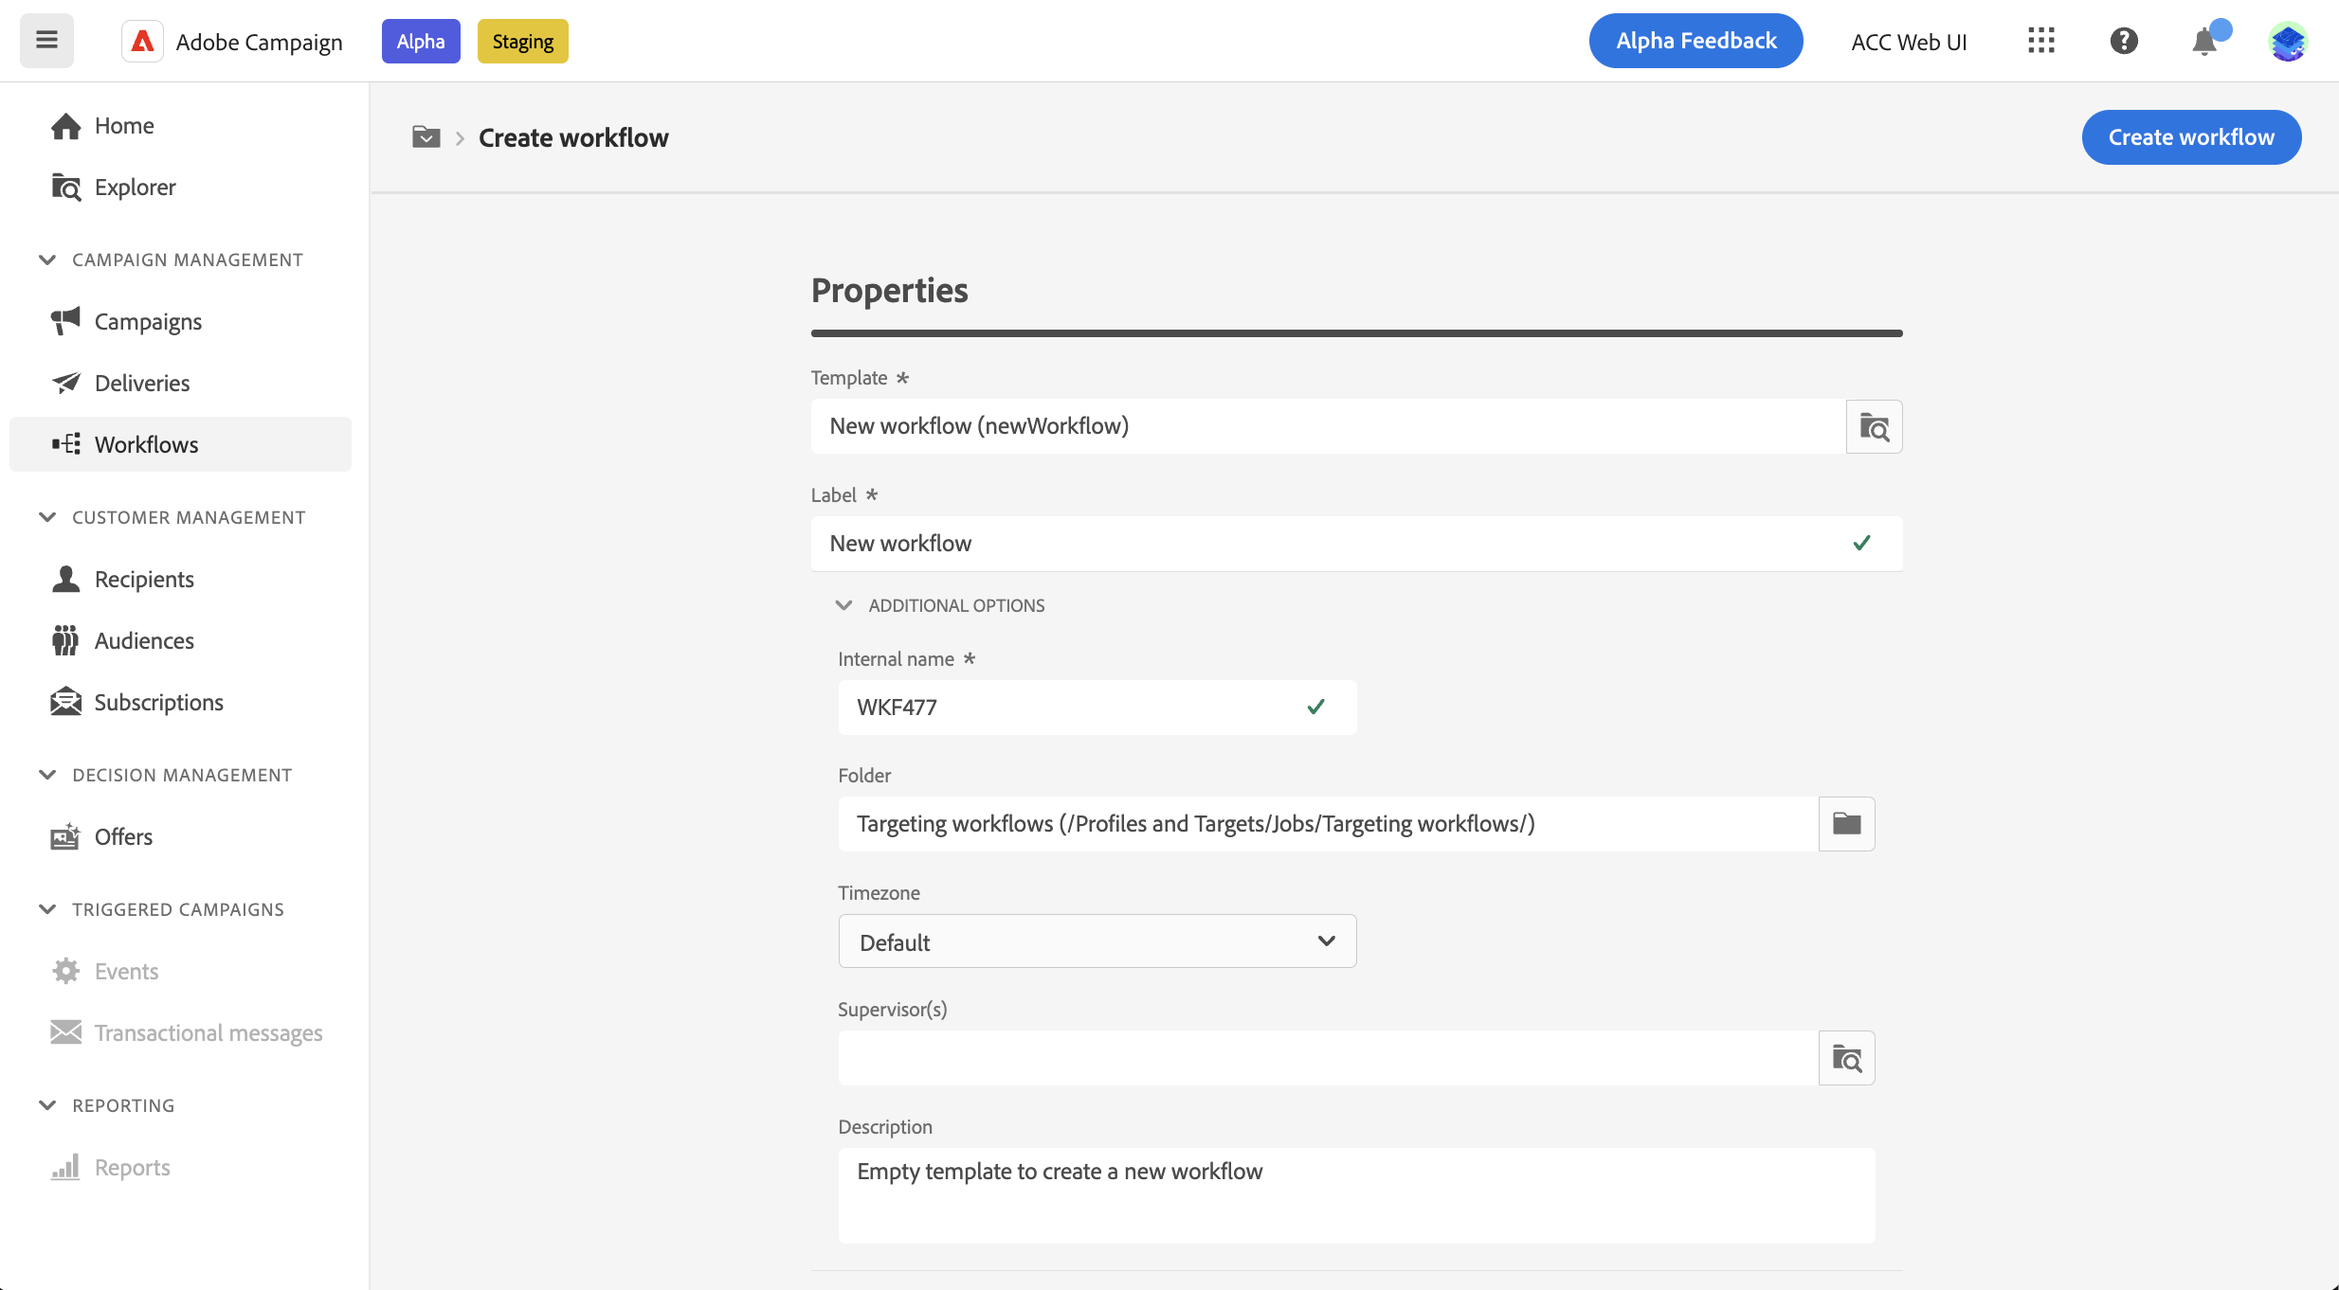
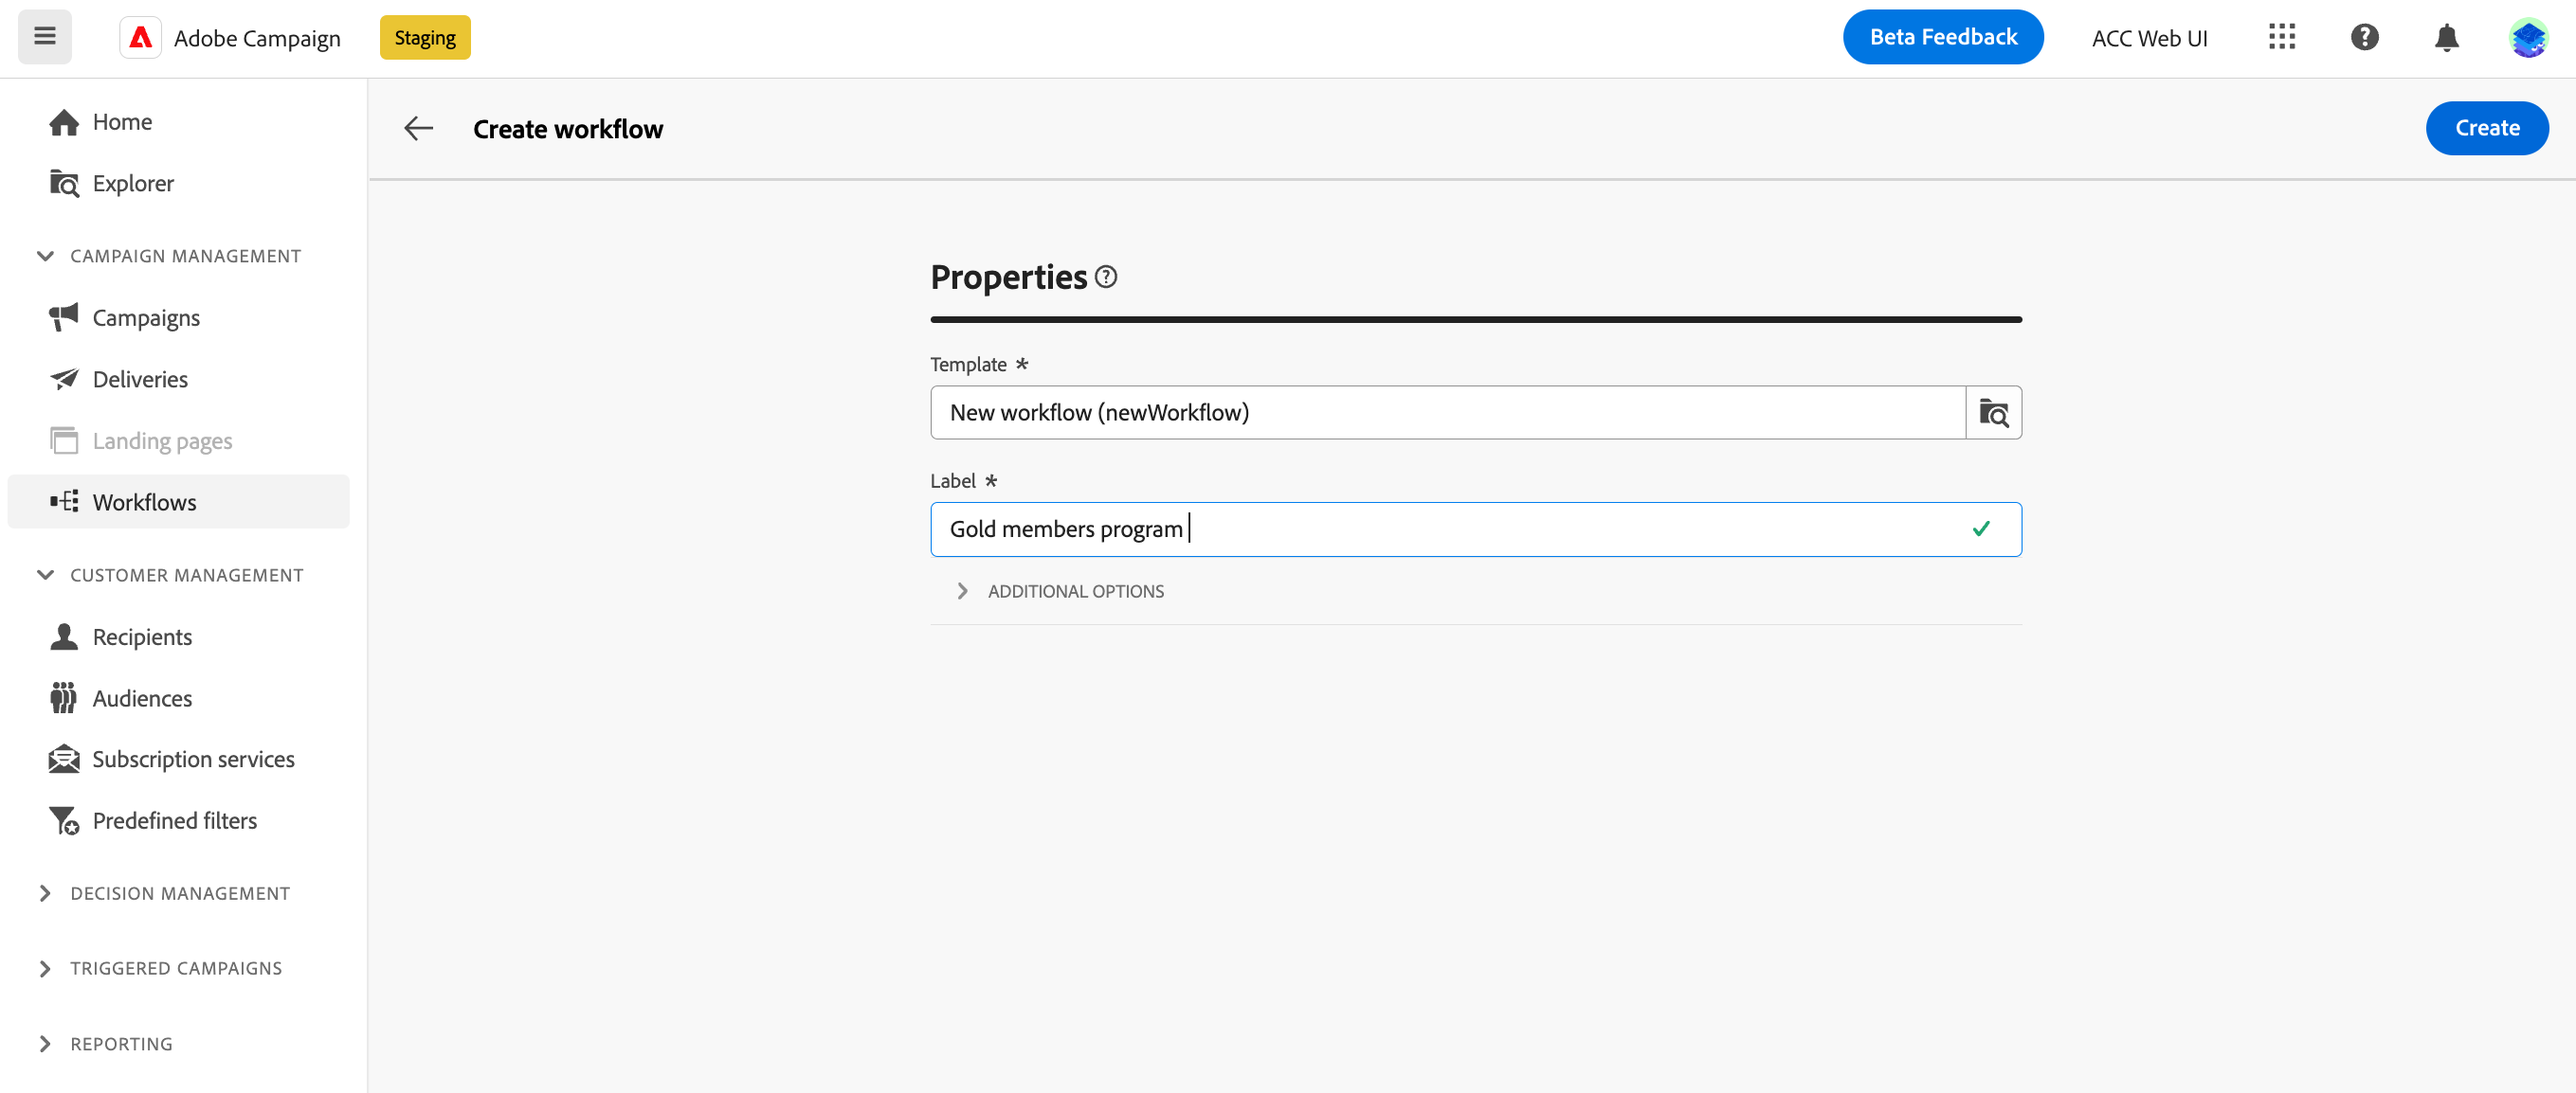
Update WF ovv

diff --git a/help/v8/workflows/create-workflow.md b/help/v8/workflows/create-workflow.md
@@ -1,7 +1,7 @@
 ---
 audience: end-user
 title: Create workflows with Adobe Campaign Web
-description: Learn how to build workflows with Adobe Campaign Web
+description: Learn how to create a workflow with Adobe Campaign Web
 badge: label="Beta" 
 exl-id: 26e7360e-cce7-4240-bb29-1dc8613f55ca
 ---
@@ -11,25 +11,36 @@ exl-id: 26e7360e-cce7-4240-bb29-1dc8613f55ca
 >[!CONTEXTUALHELP]
 >id="acw_workflow_creation_properties"
 >title="Workflow properties"
->abstract="In this screen, choose the template to use to create the workflow and specify a label. Expand the Additional options section to configure specific settings such as the workflow storing folder or timezone."
+>abstract="In this screen, choose the template to use to create the workflow and specify a label. Expand the ADDITIONAL OPTIONS section to configure more settings such as the workflow internal name, its folder, timezone, and supervisor group. It is highly recommended to select a supervisor group so that operators are alerted if an error occurs."
 
-The first step to create your workflow in Campaign v8 Web is to create it either as a standalone workflow or directly within a campaign and to define its general properties. To do so, follow these steps:
+You can create standalone workflows, or workflows within a campaign. The first step is to select a template and define its general properties. You can then configure additional settings as needed.
 
-1. Start by deciding whether you want to create a standalone workflow or integrate it directly within a campaign:
+To do so, follow these steps:
 
-    * **Standalone workflow**: Navigate to the Worklows menu and click the Create workflow button in the upper-right corner.
-    * **Campaign workflow:** Navigate to the Campaigns menu and open the campaign where you want to create a new workflow. Click the Create workflow button in the upper-right corner of the Workflows tab.
+1. To create a **Standalone workflow**, browse to the **Worklows** menu.
+    
+    To create a **Campaign workflow**, browse to the **Campaigns** menu, and open the campaign for which you want to create a new workflow. 
 
-    The workflow Properties dialog box appears.
+1. Click the **[!UICONTROL Create workflow]** button in the upper-right corner of the screen.
 
     ![](assets/workflow-create.png)
 
-1. Select the template to use to create the workflow and provide a label for the workflow.
+1. In workflow **Properties** dialog, select the template to use to create the workflow (you can also use the default built-in template). Learn more about templates in [the section below](#work-with-workflow-templates-workflow-templates).
 
-    Workflow templates contain pre-configured activities and overall property configurations that can be reused for creating new workflows. They are created from the client console. [Learn how to work with templates](https://experienceleague.adobe.com/docs/campaign/automation/workflows/introduction/build-a-workflow.html#workflow-templates)
+1. Enter a label for the workflow. In addition, we strongly recommend you to add a description to your workflow, in the dedicated field of the **[!UICONTROL Additional options]** section of the screen.
 
-1. Expand the **[!UICONTROL Additional options]** section if you want to configure specific settings for the workflow, such as the storing folder and timezone. [Learn how to configure worklow properties](workflow-settings.md)
+1. Expand the **[!UICONTROL Additional options]** section to configure more settings for the workflow. Learn how to configure the worklow properties in [this page](workflow-settings.md#properties)
+
+    ![](assets/workflow-additional-options.png)
 
 1. Click the **[!UICONTROL Create workflow]** button to confirm the creation of your workflow.
 
-With your workflow created, you can now start orchestrating the various tasks it will perform using a dedicated visual canvas. [Learn how to orchestrate workflow activities](orchestrate-activities.md)
+Your workflow is now created and available in the list of worklows. You can now access its visual canvas and start adding, configuring, and orchestrating the tasks it will perform. Learn how to orchestrate workflow activities in [this page](orchestrate-activities.md).
+
+## Work with workflow templates {#workflow-templates}
+
+Workflow templates contain pre-configured activities and overall settings that can be reused for creating new workflows. Templates are created from Campaign client console. 
+
+In Campaign v8 Web, you can select the template of your workflow from the workflow properties. An emplty template is provided by default.
+
+Learn how to work with templates in [Campaign (client console) v8 documentation](https://experienceleague.adobe.com/docs/campaign/automation/workflows/introduction/build-a-workflow.html#workflow-templates){target="_blank"}.

diff --git a/help/v8/workflows/gs-workflow-creation.md b/help/v8/workflows/gs-workflow-creation.md
@@ -10,9 +10,9 @@ exl-id: 687b13a4-7ec8-4d07-9d20-53eb4ebefd28
 
 With Campaign v8 Web, you can build workflows into a visual canvas to design cross-channel processes such as segmentation, campaign execution, file processing.
 
-Workflows can be created either as standalone workflows, from the Workflows menu, or directly within a campaign, in which case the workflow will be linked to the campaign and executed along with all the other campaign's workflows.
+Workflows can be created either as standalone workflows, from the **Workflows** menu, or directly within a campaign, in which case the workflow will be linked to the campaign and executed along with all the other campaign's workflows.
 
-## What's inside a workflow?
+## What's inside a workflow? {#gs-workflow-inside}
 
 The workflow diagram is a representation of what is supposed to happen. It describes the various tasks to be performed and how they are linked together. 
 
@@ -26,10 +26,18 @@ Each workflow contains:
 
 * **Transitions**: Transitions link a source activity to a destination activity and define their sequence. 
 
-* **Worktables**: The worktable contains all the information carried by the transition. Each workflow uses several worktables. The data conveyed in these tables can be used throughout the workflow’s life cycle.
+* **Worktables**: The worktable contains all the information carried by the transition. Each workflow uses several worktables. The data conveyed in these tables can be used throughout the workflow's life cycle.
 
-## Main steps to create a workflow
+## Key steps to create a workflow {#gs-workflow-steps}
 
-The main steps to create workflows are as follows:
+Key steps to create workflows are as follows:
 
 ![](assets/workflow-creation-process.png)
+
+These steps are detailed in the following section:
+
+1. [Create your workflow and define its properties](create-workflow.md)
+1. [Orchestrate and configure activities](orchestrate-activities.md)
+1. [Configure your workflow advanced settings](workflow-settings.md)
+1. [Start your workflow and monitor its execution](start-monitor-workflows.md)
+
